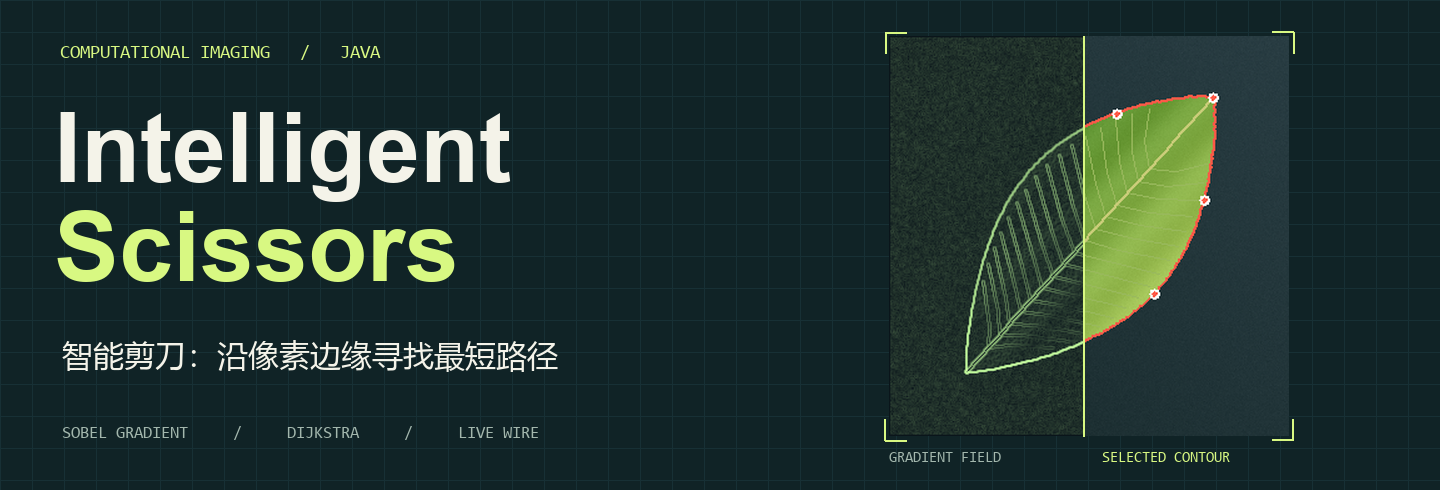
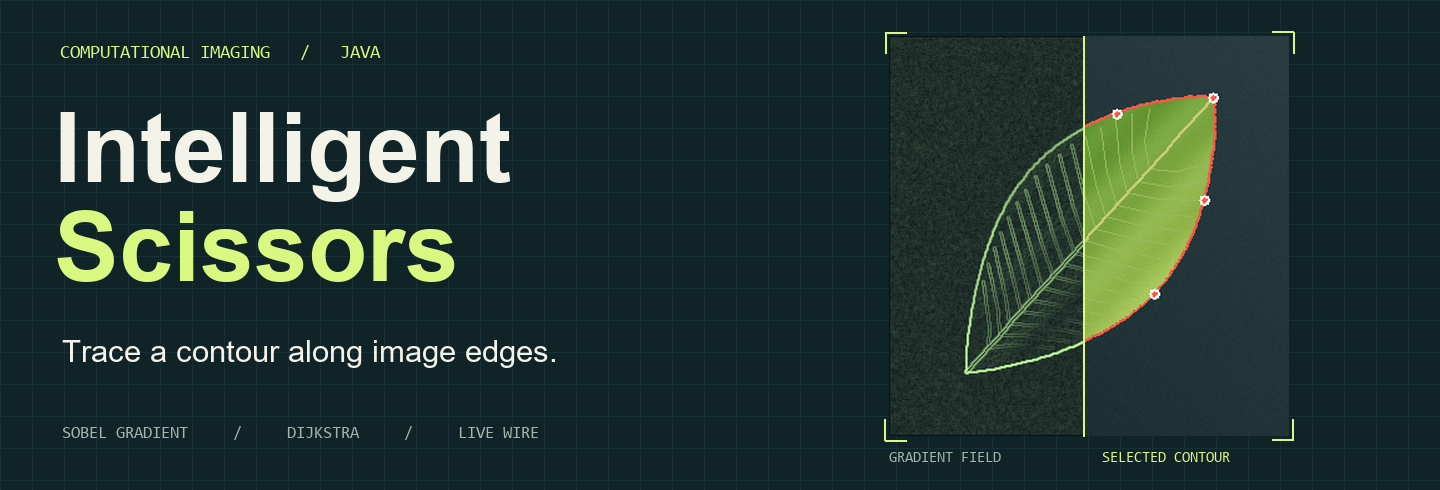
Present the illustrated project guide in English

Changed region(s): [[0.0312, 0.6735, 0.4062, 0.7653]]

diff --git a/README.md b/README.md
@@ -1,26 +1,26 @@
-![Intelligent Scissors 智能剪刀。左半片叶子显示 Sobel 梯度，右半片显示算法沿叶缘找到的红色轮廓。](live-wire-cover.png)
+![Intelligent Scissors. One half of a leaf shows the Sobel gradient and the other shows the computed contour.](live-wire-cover.png)
 
-**Intelligent Scissors** 是一个 Java Swing 交互式抠图工具。你在物体边缘点下锚点，它在锚点与光标之间寻找一条贴着边缘的路径。沿轮廓走一圈，就能把选区保存为透明 PNG。
+**Intelligent Scissors** is a Java Swing tool for cutting objects out of images. Click a point on an object's outline, then move the cursor along it. A red line follows the edges between your anchor and the cursor. Close the outline to save the selection as a transparent PNG.
 
-[看算法过程](#一片叶子的轮廓是怎么算出来的) · [运行项目](#运行项目) · [试用叶片样图](leaf-sample.png)
+[How it works](#how-it-works) · [Run the app](#run-the-app) · [Try the leaf sample](#try-the-leaf-sample)
 
-## 一片叶子的轮廓是怎么算出来的？
+## How it works
 
-![从左到右依次是原始叶片、Sobel 梯度图、经过八个锚点的最短路径、棋盘格上显示的透明抠图。](live-wire-stages.png)
+![Four views of the same leaf: the source image, its gradient, the shortest paths joining eight anchors, and the cutout on a checkerboard.](live-wire-stages.png)
 
-上图使用仓库自带的 [320 × 320 叶片样图](leaf-sample.png)。梯度、路径和透明选区均由本项目的 Java 类计算。白点标出这次演示使用的 8 个锚点，红线连接相邻锚点，棋盘格表示透明区域。
+The project's Java code produced the gradient map, contour, and cutout from this [320 × 320 leaf image](leaf-sample.png). The eight white dots are the anchors used for this example. The red line joins them, and the checkerboard shows where the output is transparent.
 
-| 阶段 | 从图中看什么 | 对应实现 |
+| Stage | What to look for | Implementation |
 | --- | --- | --- |
-| 读出边缘 | Sobel 算子分别计算水平与垂直方向的亮度变化。叶缘最亮，叶脉也留下了较弱的线。 | [ImageProcessor.java](dsbb_project/src/ImageProcessor.java) |
-| 沿边寻路 | 每个像素与周围最多 8 个像素相连。走入下一像素的代价为 `1 / (1 + 梯度强度)`。Dijkstra 从锚点计算累计代价最低的路径，所以红线可以绕着叶缘弯曲。 | [PathFinder.java](dsbb_project/src/PathFinder.java) |
-| 闭合并抠图 | 各段路径拼成多边形，只将选区内的原始像素画入透明画布。输出保留原图尺寸。 | [CroppingUtils.java](dsbb_project/src/CroppingUtils.java) |
+| Find edges | Sobel filters measure horizontal and vertical changes in brightness. The leaf's outer edge lights up, and its veins appear as fainter lines. | [ImageProcessor.java](dsbb_project/src/ImageProcessor.java) |
+| Trace the outline | Each pixel connects to up to eight neighbors. Moving to a neighbor costs `1 / (1 + gradient magnitude)`, so a strong edge is cheap to follow. Dijkstra's algorithm finds the path with the lowest total cost from the anchor to the cursor. | [PathFinder.java](dsbb_project/src/PathFinder.java) |
+| Make the cutout | The connected paths form a polygon. Pixels inside it are copied onto a transparent canvas with the same dimensions as the source image. | [CroppingUtils.java](dsbb_project/src/CroppingUtils.java) |
 
-**为什么还需要锚点？** 叶脉和外轮廓都是边缘。如果预览线沿叶脉抄了近路，就在想保留的叶缘上补一个锚点，让下一段路径从那里重新出发。
+**Where should you place the next anchor?** Both a vein and the outer rim can register as edges. If the red line starts to follow a vein, move back along the rim and click just before the line turns inward. The next segment will start there.
 
-## 运行项目
+## Run the app
 
-准备 **JDK 11 或更高版本**。仓库内含所需的 `algs4.jar`。从仓库根目录运行以下命令，启动类为 `IntelligentScissorsGUI`。
+Install **JDK 11 or later** and start in the repository root. The required `algs4.jar` is included.
 
 **Windows PowerShell**
 
@@ -33,7 +33,7 @@ java -cp "build;algs4/algs4.jar" IntelligentScissorsGUI
 ```
 
 <details>
-<summary>macOS / Linux 命令</summary>
+<summary>macOS and Linux</summary>
 
 ```sh
 cd dsbb_project
@@ -44,12 +44,12 @@ java -cp "build:algs4/algs4.jar" IntelligentScissorsGUI
 
 </details>
 
-## 试一次贴边抠图
+## Try the leaf sample
 
-<img src="workbench.png" width="426" alt="项目的 Swing 界面，红色预览线沿着叶片左侧从叶尖下端向上延伸。">
+<img src="workbench.png" width="426" alt="The Swing app tracing the lower left edge of the leaf in red.">
 
-1. 选择 **文件 → 打开图像**，打开仓库根目录的 `leaf-sample.png`。
-2. 单击叶缘设置第一个锚点，再沿边缘移动光标。观察红线，在转弯处单击，确定当前路径段。
-3. 绕回起点附近，双击闭合轮廓。在弹出的抠图窗口点击 **保存**，使用带 `.png` 后缀的文件名。
+1. Open **File → Open Image** (文件 → 打开图像) and select `leaf-sample.png` from the repository root.
+2. Click the leaf's edge to place your first anchor. Move the cursor along the rim and click near bends to fix each segment in place.
+3. Return near the first anchor and double-click to close the outline. In the cutout window, click **Save** (保存) and give the file a `.png` extension.
 
-当前版本建议先用**方形图片**体验。路径数组的初始化按图像高度遍历第一维，处理非方形图片时可能出现路径不完整或数组越界。
+For this version, use a **square image**. The pathfinder initializes the first dimension of its arrays using the image height. On rectangular inputs this can leave paths incomplete or cause an out-of-bounds error.
